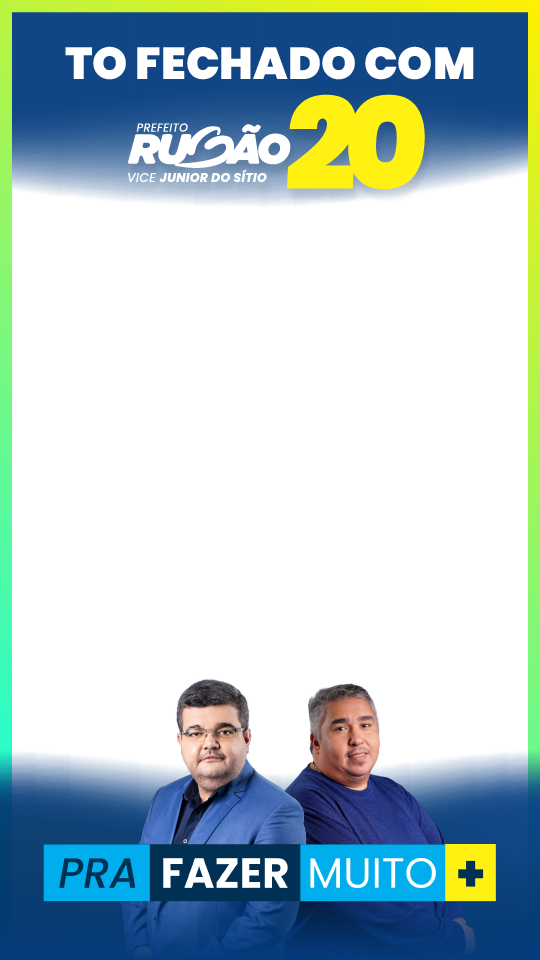
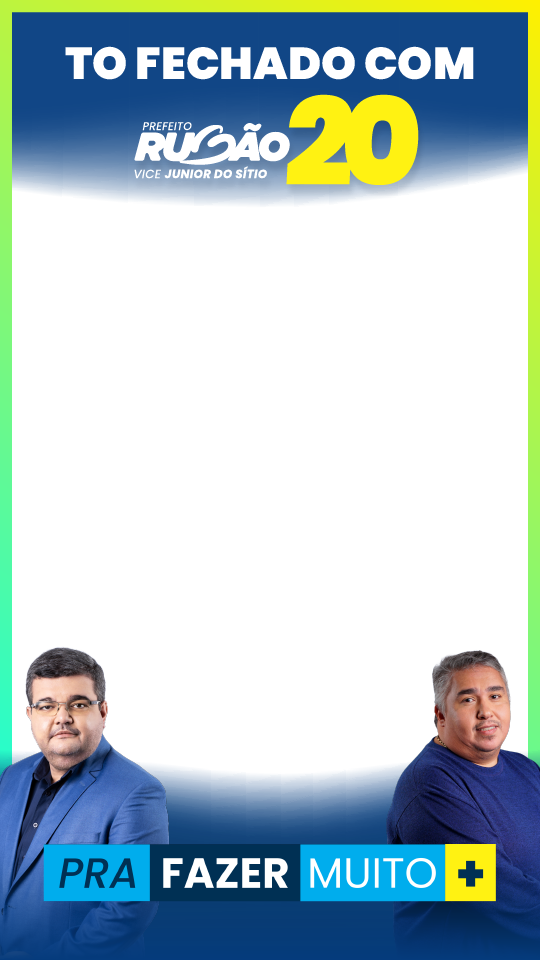
teste

diff --git a/src/app/temas/feed/ImageCropperFeed.jsx b/src/app/temas/feed/ImageCropperFeed.jsx
@@ -7,7 +7,7 @@ const ImageCropper = ({ imageSrc }) => {
   const [loading, setLoading] = useState(true); // Estado de carregamento
   const [isSaving, setIsSaving] = useState(false); // Novo estado para rastrear o salvamento
   const cropperRef = useRef(null);
-  const overlayImageSrc = "/images/frame-stories-rubao20.png"; // Substitua pelo caminho da sua imagem de overlay
+  const overlayImageSrc = "/images/frame-feed-rubao20.png"; // Substitua pelo caminho da sua imagem de overlay
 
   // Carregar a imagem e monitorar o estado de carregamento
   useEffect(() => {
@@ -26,7 +26,7 @@ const ImageCropper = ({ imageSrc }) => {
 
     const cropper = cropperRef.current.cropper;
     const croppedCanvas = cropper.getCroppedCanvas({
-      width: 540,
+      width: 960,
       height: 960,
     });
 
@@ -36,17 +36,17 @@ const ImageCropper = ({ imageSrc }) => {
 
     blurredBackgroundImg.onload = () => {
       const combinedCanvas = document.createElement("canvas");
-      combinedCanvas.width = 540;
+      combinedCanvas.width = 960;
       combinedCanvas.height = 960;
       const ctx = combinedCanvas.getContext("2d");
 
-      ctx.drawImage(blurredBackgroundImg, 0, 0, 540, 960);
-      ctx.drawImage(croppedCanvas, 0, 0, 540, 960);
+      ctx.drawImage(blurredBackgroundImg, 0, 0, 960, 960);
+      ctx.drawImage(croppedCanvas, 0, 0, 960, 960);
 
       const overlayImage = new Image();
       overlayImage.src = overlayImageSrc;
       overlayImage.onload = () => {
-        ctx.drawImage(overlayImage, 0, 0, 540, 960);
+        ctx.drawImage(overlayImage, 0, 0, 960, 960);
 
         combinedCanvas.toBlob((blob) => {
           if (blob) {
@@ -78,12 +78,12 @@ const ImageCropper = ({ imageSrc }) => {
       img.onload = () => {
         const canvas = document.createElement("canvas");
         const ctx = canvas.getContext("2d");
-        canvas.width = 540;
+        canvas.width = 960;
         canvas.height = 960;
 
-        ctx.drawImage(img, 0, 0, 540, 960);
+        ctx.drawImage(img, 0, 0, 960, 960);
         ctx.filter = "blur(10px)";
-        ctx.drawImage(canvas, 0, 0, 540, 960);
+        ctx.drawImage(canvas, 0, 0, 960, 960);
 
         resolve(canvas.toDataURL("image/png"));
       };
@@ -91,7 +91,7 @@ const ImageCropper = ({ imageSrc }) => {
   };
 
   return (
-    <div className="relative w-[270px] h-[480px]">
+    <div className="relative w-[300px] h-[300px]">
       {loading ? (
         // Spinner de carregamento
         <div className="flex justify-center items-center w-full h-full">
@@ -100,18 +100,18 @@ const ImageCropper = ({ imageSrc }) => {
       ) : (
         <Cropper
           src={imageSrc}
-          style={{ height: "480px", width: "270px" }}
+          style={{ height: "300px", width: "300px" }}
           aspectRatio={9 / 16}
           guides={false}
           ref={cropperRef}
           background={false}
           viewMode={0}
-          minCropBoxHeight={480}
-          minCropBoxWidth={270}
-          minContainerWidth={270}
-          minContainerHeight={480}
-          minCanvasWidth={270}
-          minCanvasHeight={480}
+          minCropBoxHeight={300}
+          minCropBoxWidth={300}
+          minContainerWidth={300}
+          minContainerHeight={300}
+          minCanvasWidth={300}
+          minCanvasHeight={300}
           dragMode="move"
           cropBoxResizable={false}
           cropBoxMovable={false}
@@ -126,8 +126,8 @@ const ImageCropper = ({ imageSrc }) => {
           position: "absolute",
           top: 0,
           left: 0,
-          width: "270px",
-          height: "480px",
+          width: "300px",
+          height: "300px",
           objectFit: "cover",
           pointerEvents: "none",
           zIndex: 1,
@@ -141,8 +141,8 @@ const ImageCropper = ({ imageSrc }) => {
             backgroundImage: `url(${croppedImage})`,
             backgroundSize: "cover",
             backgroundPosition: "center",
-            width: "270px",
-            height: "480px",
+            width: "300px",
+            height: "300px",
             position: "absolute",
             top: 0,
             left: 0,

diff --git a/src/app/temas/feed/page.jsx b/src/app/temas/feed/page.jsx
@@ -1,0 +1,102 @@
+"use client";
+import React, { useState, useRef } from "react";
+import Header from "@/components/Header";
+import Footer from "@/components/Footer";
+import ImageCropper from "./ImageCropperFeed"; // Ajuste o caminho conforme necessário
+import Image from "next/image";
+import { FiCopy } from "react-icons/fi"; // Importar ícone de copiar
+
+const Profile = () => {
+  const [imageSrc, setImageSrc] = useState(null);
+  const [copySuccess, setCopySuccess] = useState(false); // Estado para a mensagem de confirmação
+  const fileInputRef = useRef(null);
+
+  const handleFileClick = () => {
+    fileInputRef.current.click();
+  };
+
+  const handleImageChange = (event) => {
+    const file = event.target.files[0];
+    if (file) {
+      const reader = new FileReader();
+      reader.onload = (e) => {
+        setImageSrc(e.target.result);
+      };
+      reader.readAsDataURL(file);
+    }
+  };
+
+  const handleCopyClick = () => {
+    navigator.clipboard
+      .writeText(window.location.href)
+      .then(() => {
+        setCopySuccess(true);
+        setTimeout(() => setCopySuccess(false), 2000); // Ocultar mensagem após 2 segundos
+      })
+      .catch((err) => console.error("Failed to copy: ", err));
+  };
+
+  return (
+    <main className="min-h-screen flex flex-col bg-gradient-to-b from-[#053C81]/90 to-[#003055]">
+      <Header />
+      <main className="flex-1 flex flex-col items-center justify-center p-10 mb-20 mt-12">
+        <div className="my-7">
+          {!imageSrc && (
+            <div className="relative h-72 w-64 mx-auto">
+              <Image
+                width={400}
+                height={400}
+                alt="Imagem perfil personalizada"
+                src="/example-feed.png"
+                className="w-full h-full object-contain"
+              />
+              <button
+                onClick={handleCopyClick}
+                className="absolute top-4 -right-11 p-2 bg-blue-500 text-white rounded-full shadow-lg hover:bg-blue-600"
+              >
+                <FiCopy size={28} />
+              </button>
+              {copySuccess && (
+                <span className="absolute top-12 right-0 p-2 bg-green-500 text-white rounded-md shadow-lg">
+                  Link copiado!
+                </span>
+              )}
+            </div>
+          )}
+          {!imageSrc && (
+            <p className="text-3xl md:text-4xl font-semibold text-center">
+              Crie Feed com Dr. Rubão
+            </p>
+          )}
+          {/* <p className="text-center text-xs md:text-base font-light text-slate-400 mt-2">
+            Recomendamos uma imagem <br className="md:hidden" /> quadrada 4:4
+            para melhor encaixe.
+          </p> */}
+        </div>
+
+        {/* Esconde o botão quando imageSrc está ativo */}
+        {!imageSrc && (
+          <div
+            onClick={handleFileClick}
+            className="w-64 h-12 flex p-3 items-center justify-center bg-sky-500 text-white cursor-pointer rounded-full border-2 border-white/20 hover:bg-white hover:text-blue-900 transition-all duration-200 hover:shadow-2xl"
+          >
+            <p>Selecione uma imagem</p>
+          </div>
+        )}
+
+        <input
+          type="file"
+          accept="image/*"
+          onChange={handleImageChange}
+          style={{ display: "none" }}
+          ref={fileInputRef}
+        />
+
+        {imageSrc && <ImageCropper imageSrc={imageSrc} />}
+      </main>
+      <Footer />
+    </main>
+  );
+};
+
+export default Profile;

diff --git a/src/app/temas/page.jsx b/src/app/temas/page.jsx
@@ -57,8 +57,8 @@ const Theme = () => {
             </div>
           </Link>
           <Link
-            href="#temas/stories"
-            className="cursor-not-allowed h-80 w-full border-2 border-slate-300 bg-white/30 rounded-2xl shadow-xl hover:drop-shadow-2xl transition-all duration-200 ease-in-out"
+            href="/temas/stories"
+            className=" h-80 w-full border-2 border-slate-300 bg-white/30 rounded-2xl shadow-xl hover:drop-shadow-2xl transition-all duration-200 ease-in-out"
           >
             <div className=" h-[70%] w-full flex items-center justify-center">
               <div className="h-48 w-48 pt-4">
@@ -72,16 +72,16 @@ const Theme = () => {
               </div>
             </div>
 
-            <div className="bg-slate-300 h-[30%] w-full rounded-b-2xl flex items-center justify-start text-slate-700 p-8">
+            <div className="bg-white h-[30%] w-full rounded-b-2xl flex items-center justify-start text-slate-700 p-8">
               <p className="text-2xl font-bold text-[#013360]">Feed</p>
-              <span className="font-normal italic text-lg text-slate-500 ml-3">
-                {"(Disponível em breve)"}
+              <span className="font-normal italic text-lg text-green-500 ml-3">
+                {"Disponível"}
               </span>
             </div>
           </Link>
           <Link
-            href="#temas/feed"
-            className="cursor-not-allowed mb-16 h-80 w-full border-2 border-slate-300 bg-white/30 rounded-2xl shadow-xl hover:drop-shadow-2xl transition-all duration-200 ease-in-out"
+            href="/temas/feed"
+            className=" mb-16 h-80 w-full border-2 border-slate-300 bg-white/30 rounded-2xl shadow-xl hover:drop-shadow-2xl transition-all duration-200 ease-in-out"
           >
             <div className=" h-[70%] w-full flex items-center justify-center">
               <div className="h-48 w-48 pt-4">
@@ -95,10 +95,10 @@ const Theme = () => {
               </div>
             </div>
 
-            <div className="bg-slate-300 h-[30%] w-full rounded-b-2xl flex items-center justify-start text-slate-700 p-8">
+            <div className="bg-white h-[30%] w-full rounded-b-2xl flex items-center justify-start text-slate-700 p-8">
               <p className="text-2xl font-bold text-[#013360]">Stories</p>
-              <span className="font-normal italic text-lg text-slate-500 ml-3">
-                {"(Disponível em breve)"}
+              <span className="font-normal italic text-lg text-green-500 ml-3">
+                {"Disponível"}
               </span>
             </div>
           </Link>
